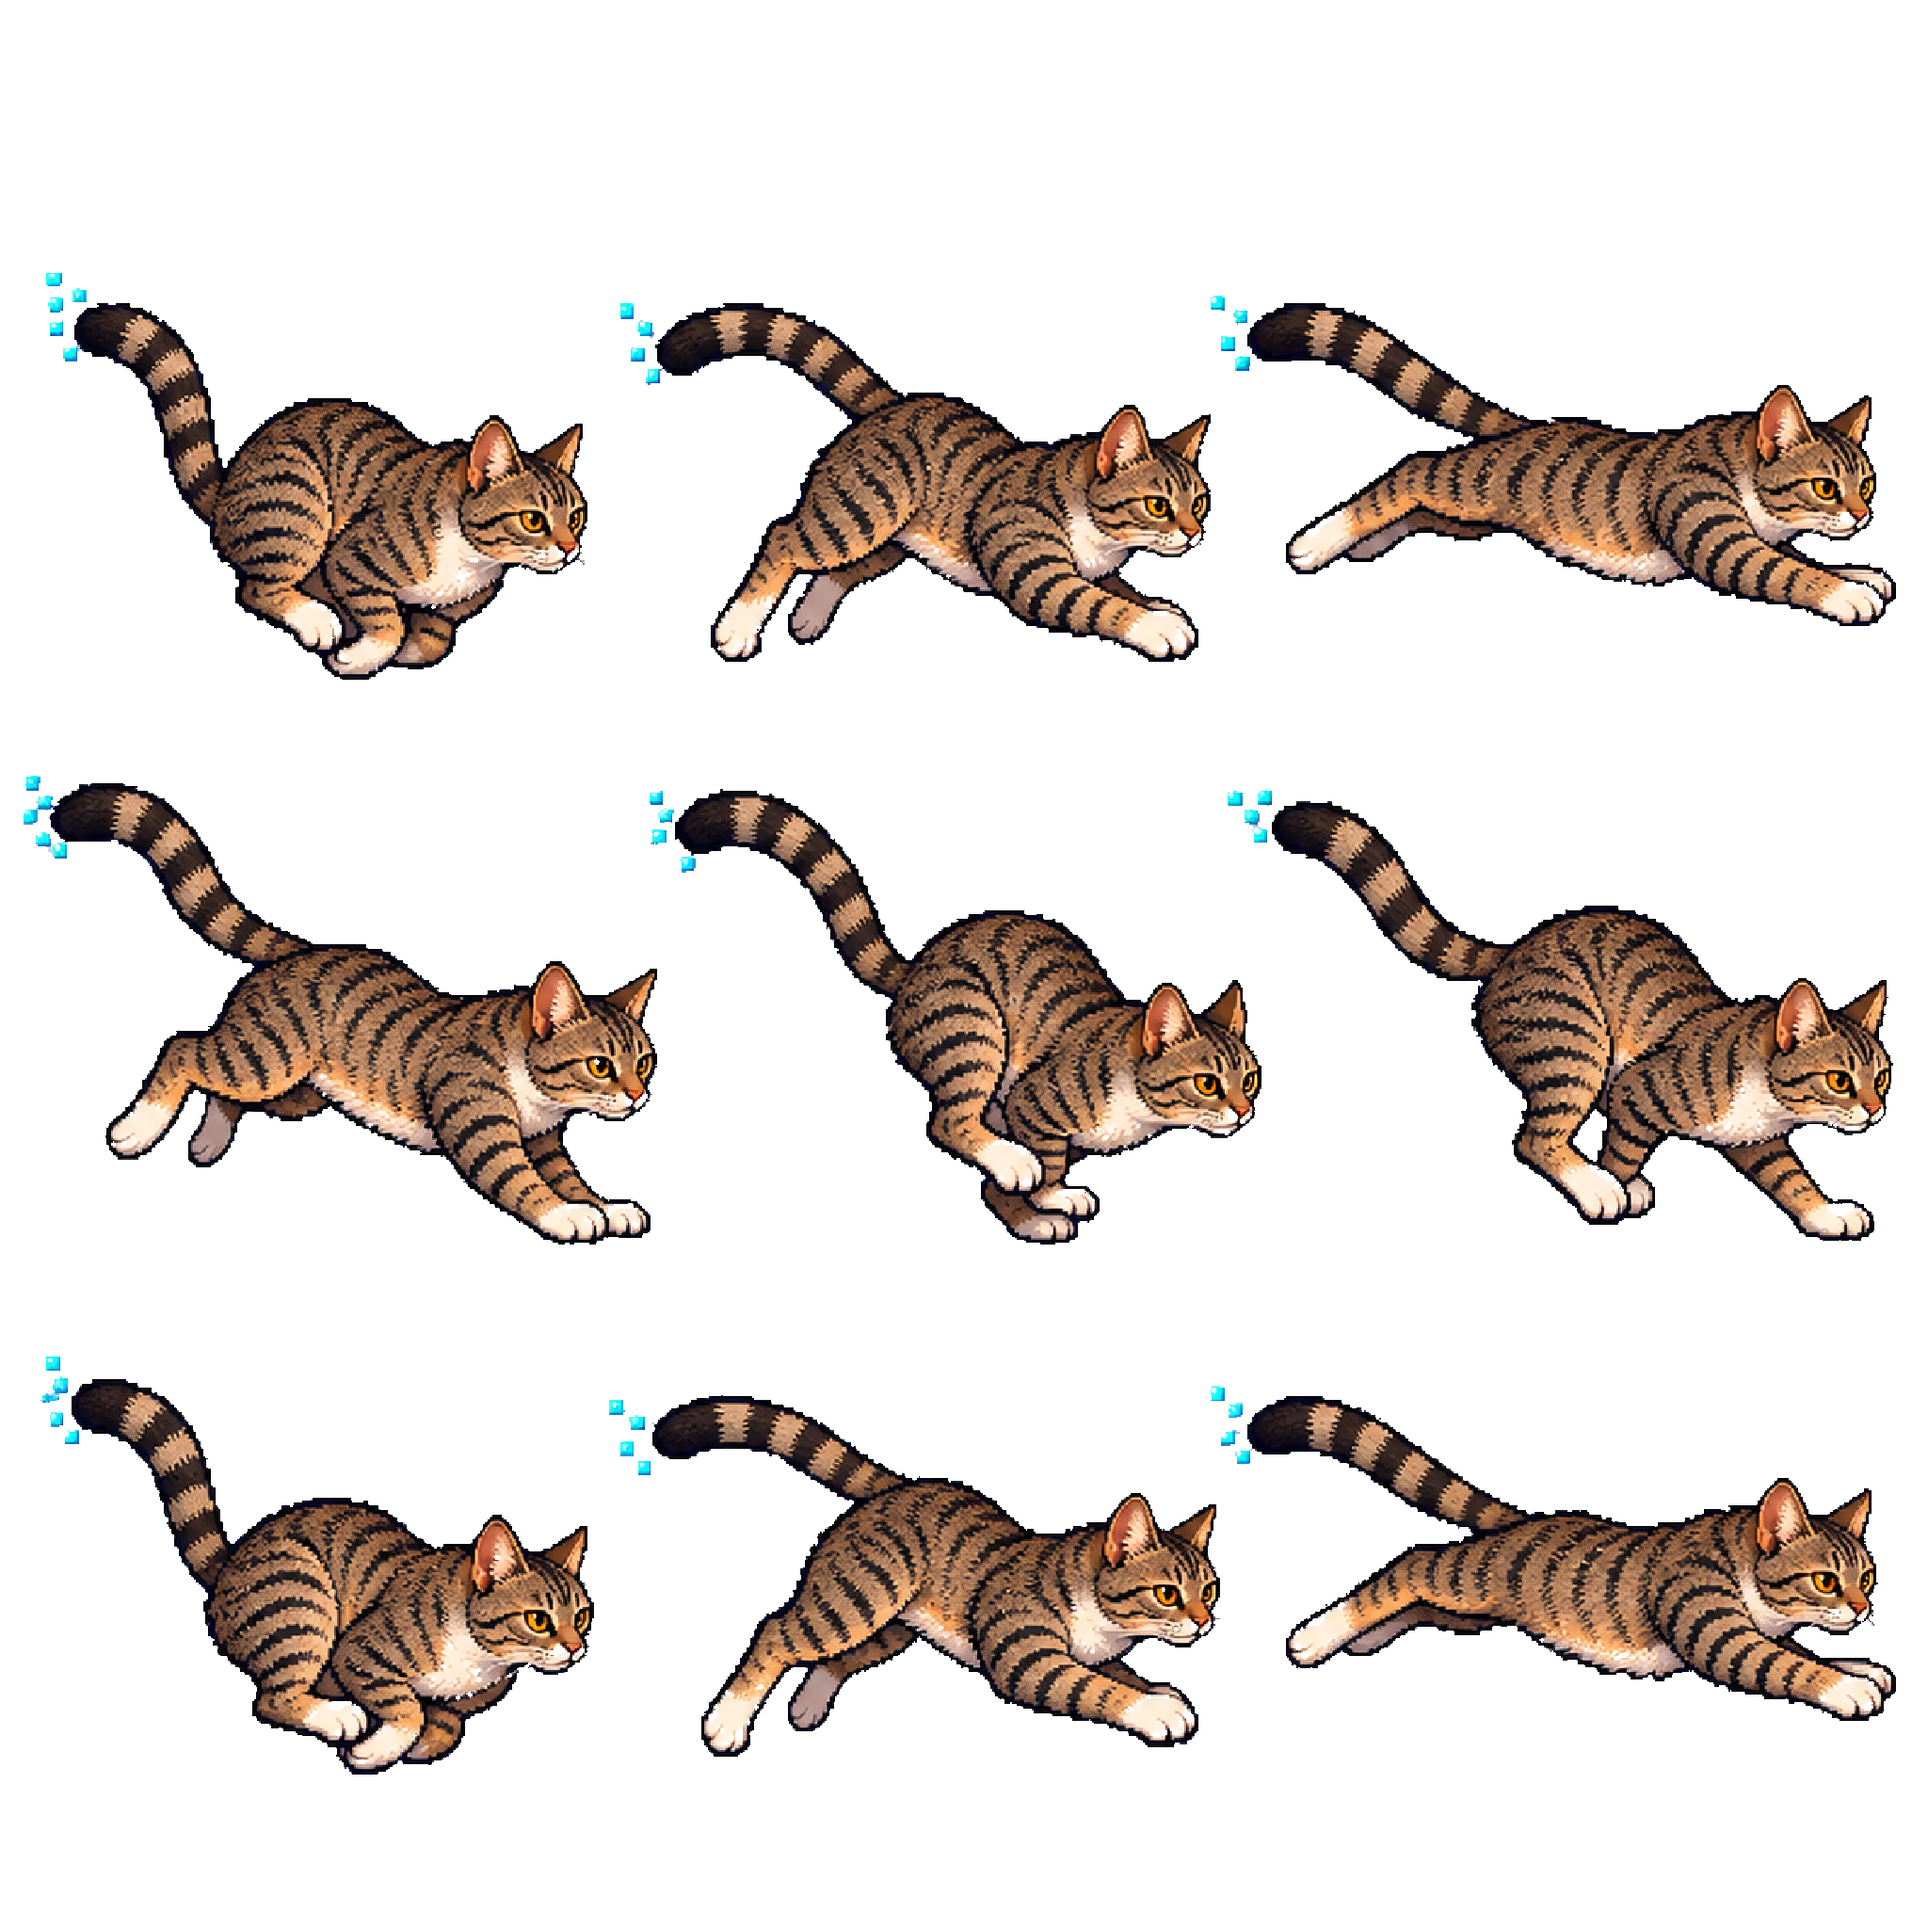
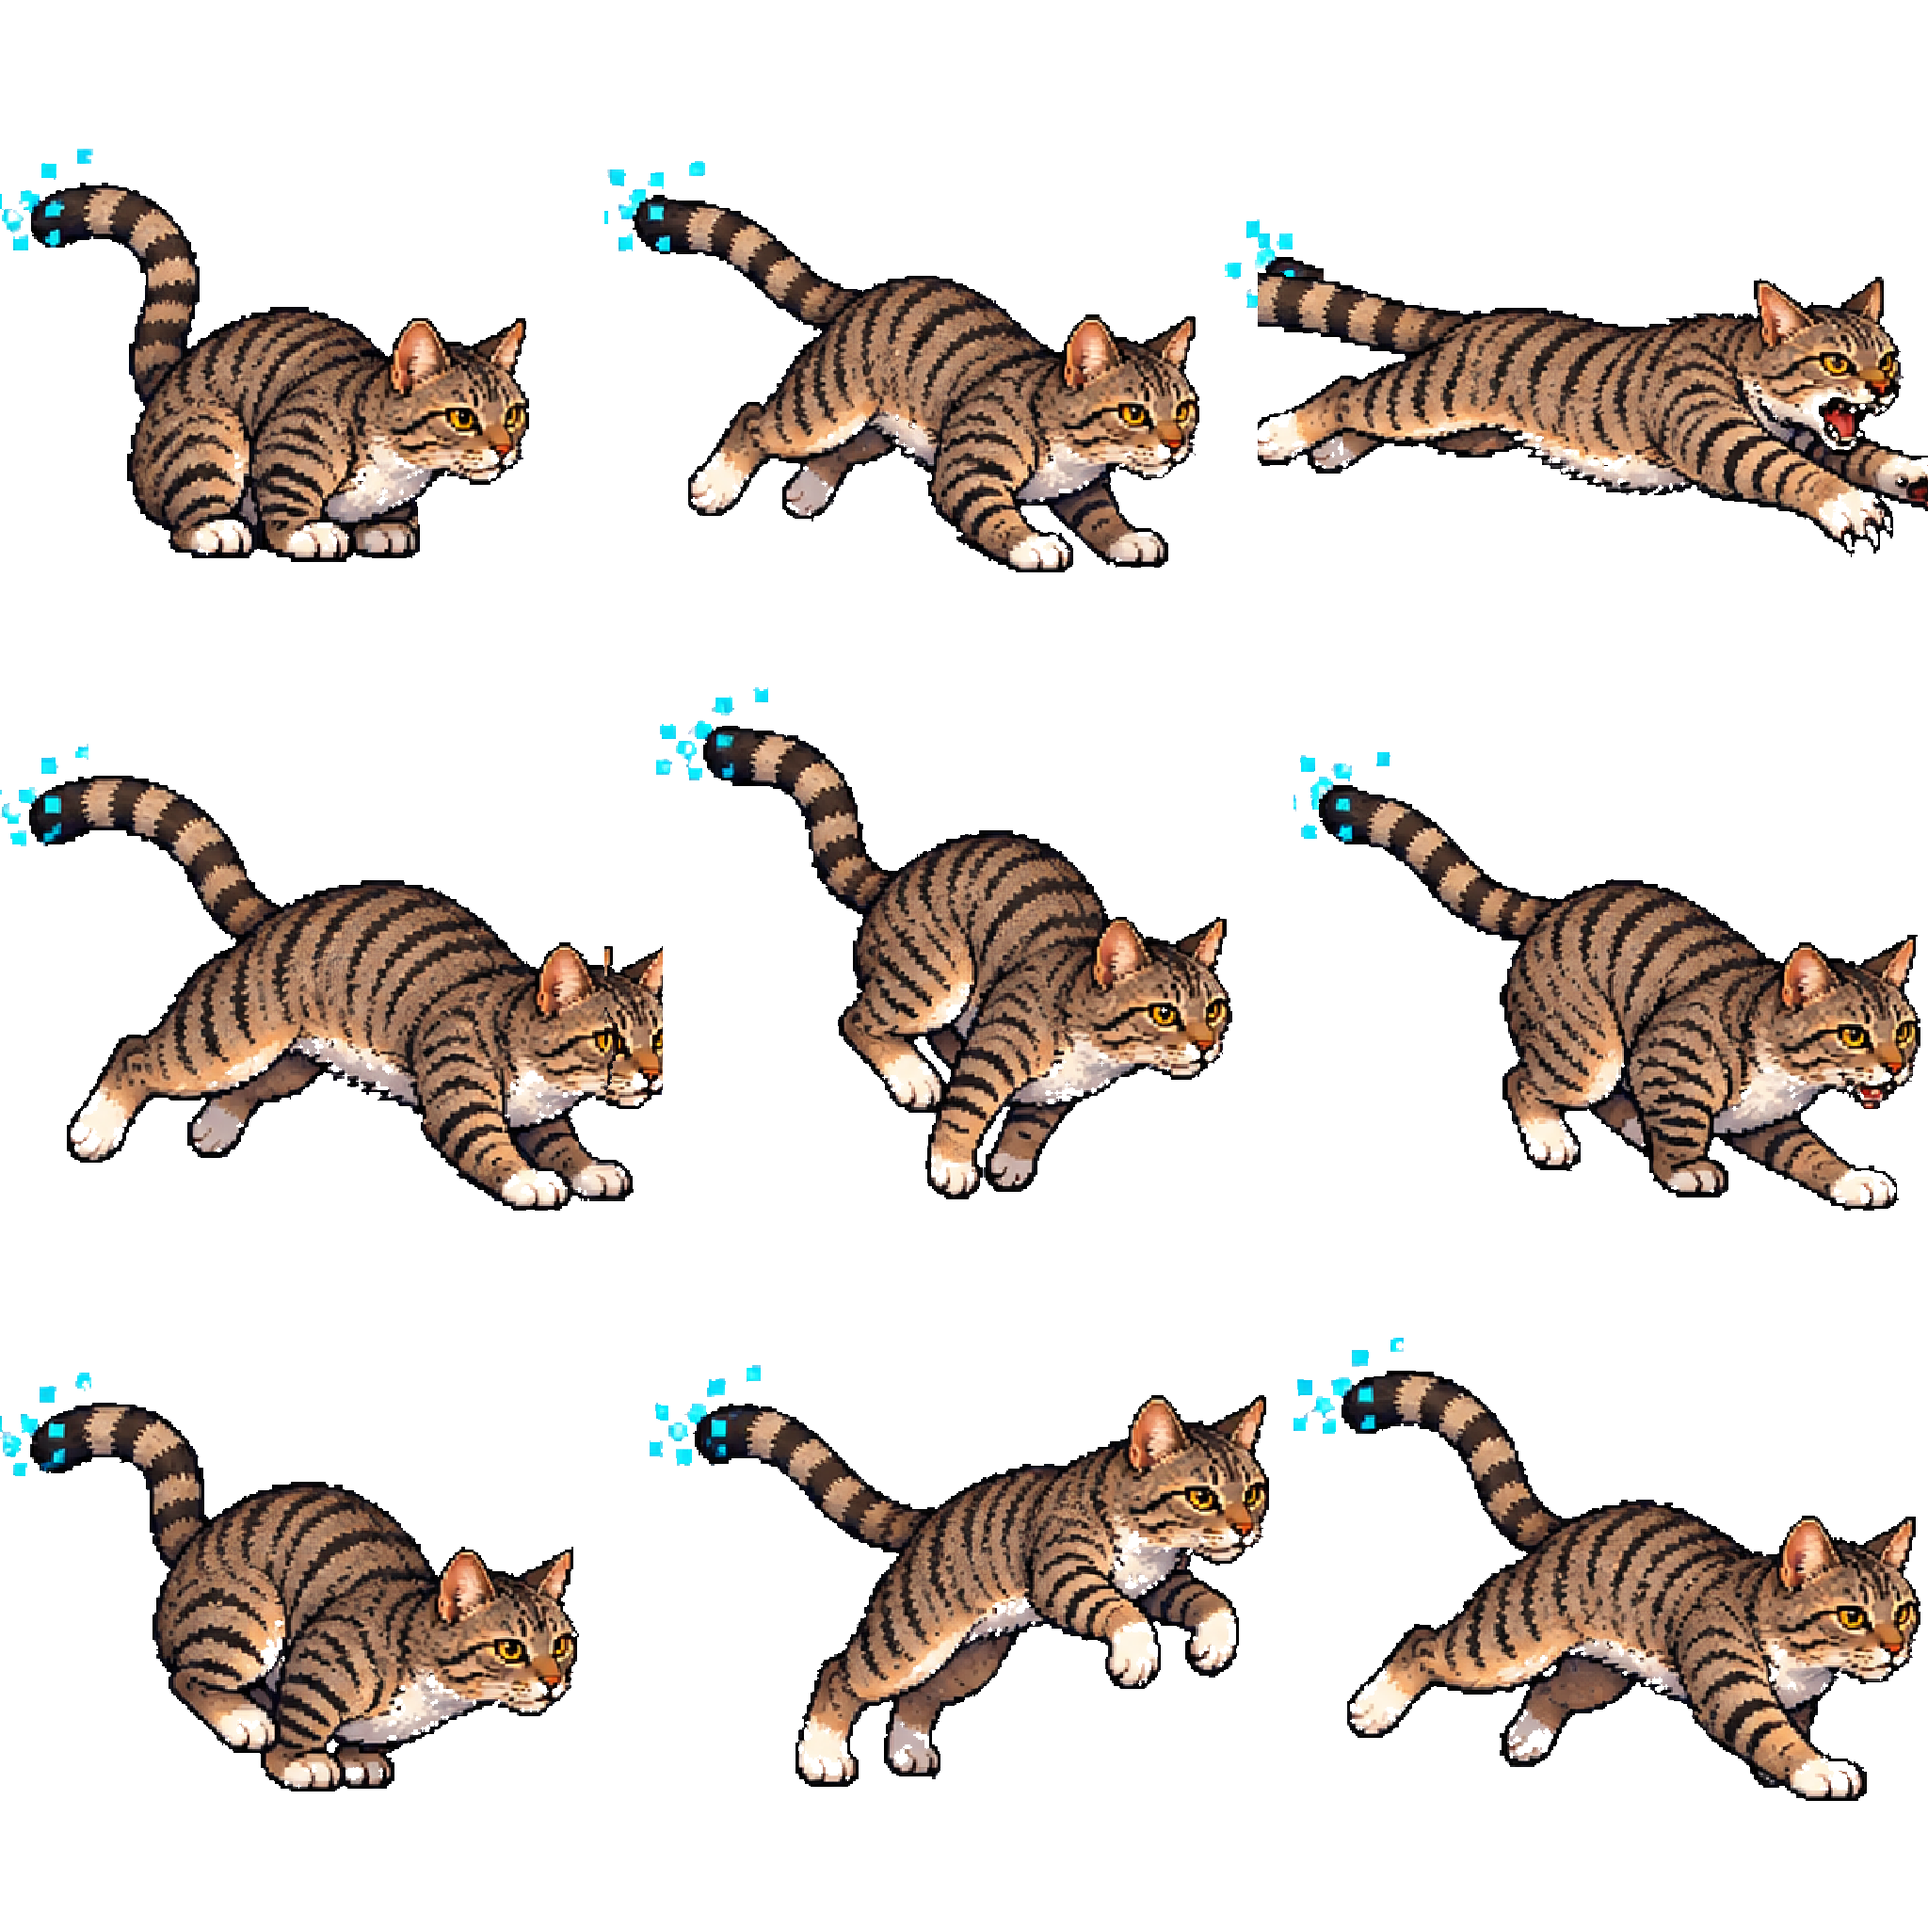
Pitz: run.png regenerated — frames 1–2 on the baseline, the whole animated set passes the gate and is built in (Shmuel's special plays the animated cat)

diff --git a/docs/prompts/QUEUE-LOG.md b/docs/prompts/QUEUE-LOG.md
@@ -157,3 +157,4 @@
 02:05 backdrop level 9 (Midjourney, candy-factory.png) → ACCEPTED, --floor=67%
 02:10 backdrop level 10 (Midjourney, cactlunya.png) → ACCEPTED, --floor=84%. ALL TEN LEVELS have Midjourney plates.
 02:35 backdrops: second Midjourney set (2:1, bigger ground) placed for all ten levels via the new 4:1 window crop — floors 46/68/52/54/50/44/46/52/44/58%; no tiling; deployed.
+09:25 pitz run attempt (owner-approved) → PASS verify:character; set complete; committed
